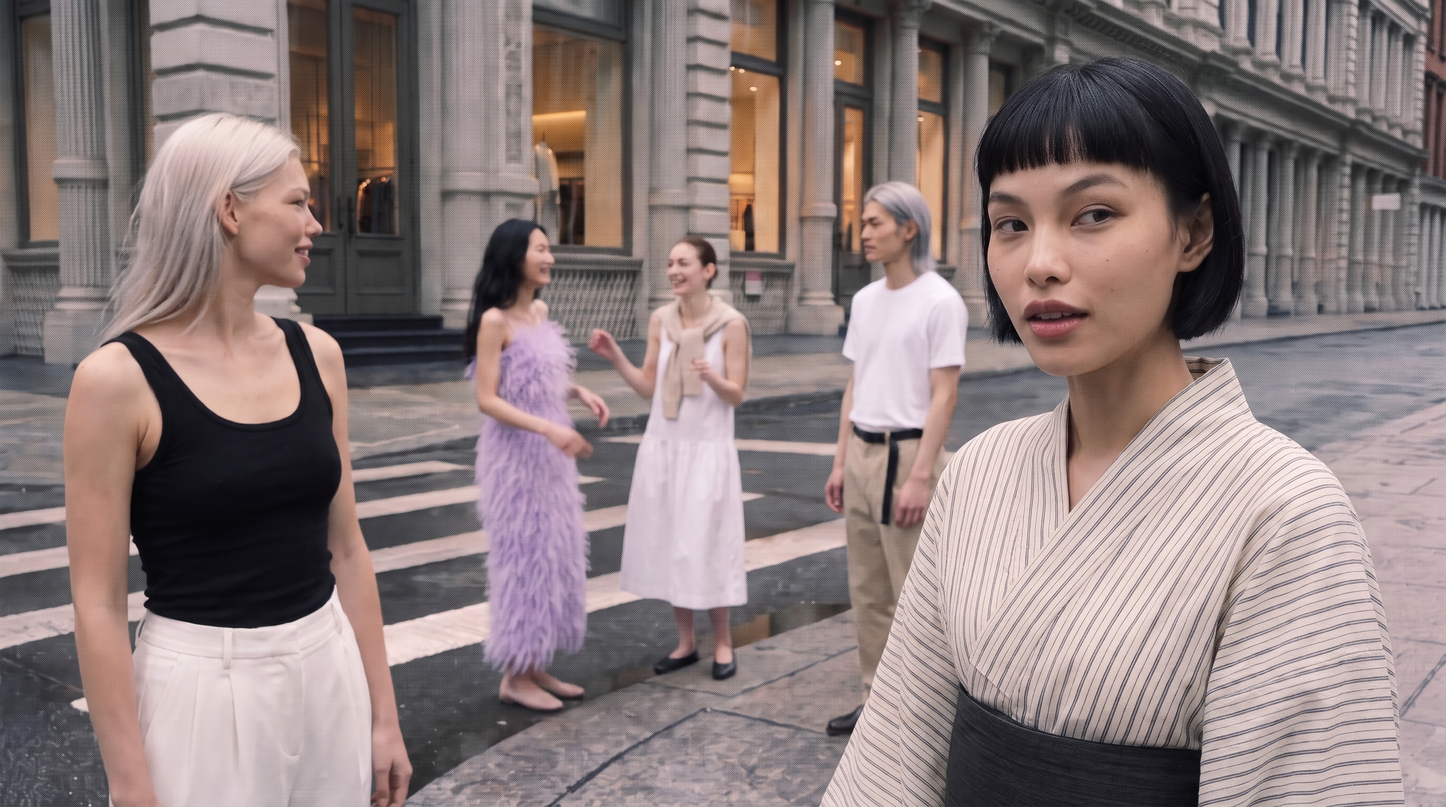
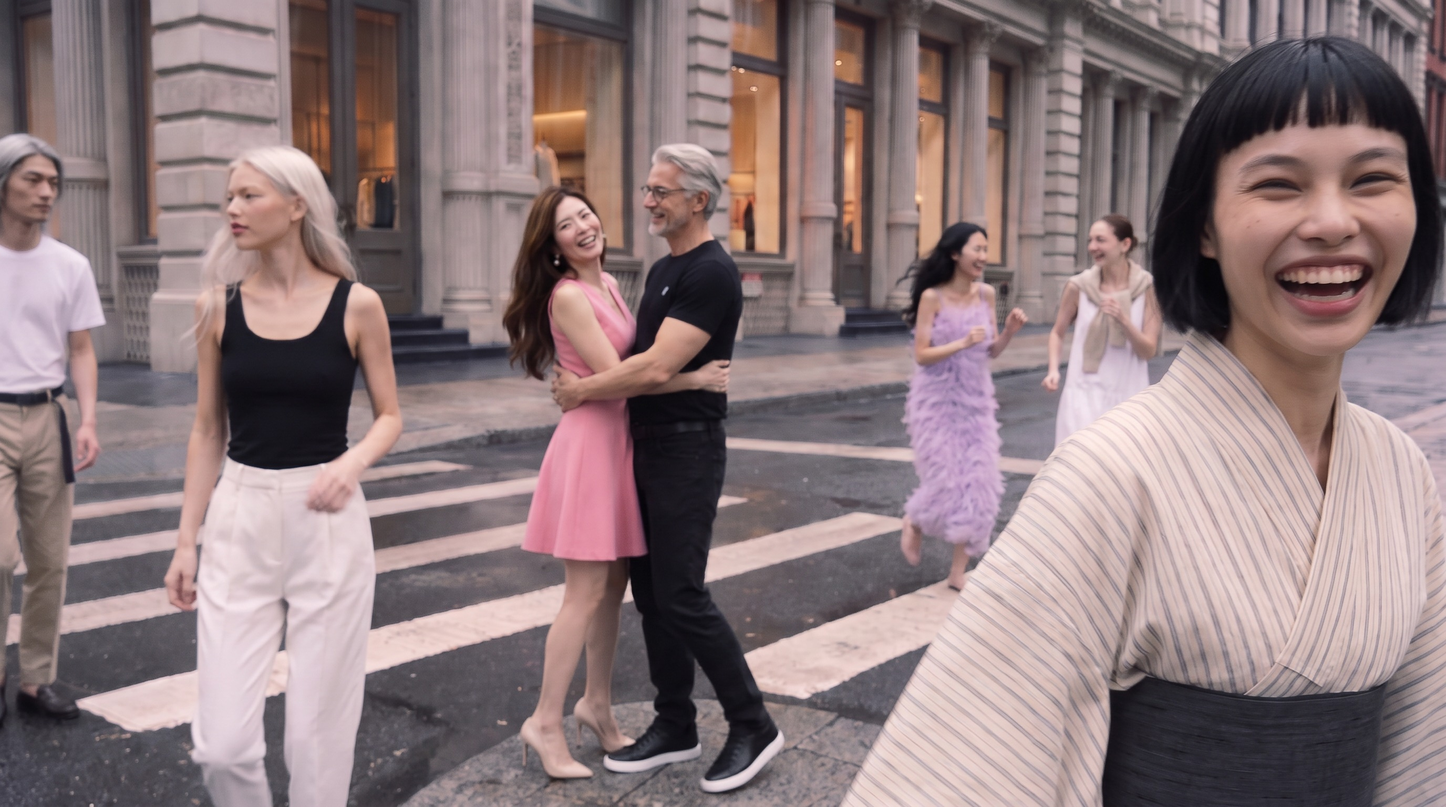
Add first frame K02 (PINKDRESS + GREYMAN) and draft 9 plan
Claude-Session: https://claude.ai/code/session_01UrVJCZzQWxhwZ3AtUMdF3w

diff --git a/street-dance/draft9_plan_and_prompt.md b/street-dance/draft9_plan_and_prompt.md
@@ -1,0 +1,58 @@
+# Draft 9: plan, inputs and prompt
+
+Same script, timing, voices and ending as draft 8. Changes: two new cast members, PINKDRESS and GREYMAN, hug, chat and dance together in the middle distance; FEATHER and SLICKED chat, jump and chase each other further back, watching LEADER. New first frame K02.
+
+## Script
+| Speaker | Line | Starts at |
+|---|---|---|
+| LEADER | "Still paying Higgsfield for this?" | 0.6 s |
+| HERO | "We made Higgsfield three x cheaper." | 2.5 s |
+| HERO | "I cost nine dollars forty-five on Higgsfield… and now one dollar eighty on treg." | 5.0 s |
+| LEADER | "Told you. It's pay per call." | 10.7 s |
+
+## Shot plan: one continuous 14 s handheld take, no cuts
+| # | Time | What happens | Camera |
+|---|---|---|---|
+| 1 | 0.0–0.6 | LEADER dances right up to the lens, silent | ~0.3 m, focus hunting |
+| 2 | 0.6–2.3 | LEADER stands still and says line 1; HERO dances at frame-left | Steps back to 0.6 m |
+| 3 | 2.5–4.8 | Pull back; LEADER dances, HERO stands still and says line 2; PINKDRESS and GREYMAN hug and sway mid-ground; FEATHER chases SLICKED behind | ~2 m, quick pan to HERO |
+| 4 | 5.0–9.8 | Group shot; HERO stands still and says the price line, counts on her fingers | Medium-wide, ~1.5 m |
+| 5 | 9.9–10.6 | SILVERMAN dances across right in front of the lens and blocks it | Frame block, autofocus hunts |
+| 6 | 10.7–13.1 | LEADER leans right into the lens, face filling the frame, and says line 4 with a sly, knowing smirk; HERO dances behind | ~0.3 m, very close |
+| 7 | 13.1–14.0 | LEADER puts her palm over the lens; the frame goes fully black | Palm covers the lens, black to the end |
+
+## Inputs
+| # | Input | Role |
+|---|---|---|
+| 1 | street-dance/stills/K02.jpg | First frame |
+| 2–6 | street-dance/cast/leader, hero, feather, slicked, silverman (.jpg) | Face, hair, outfit of each person |
+| 6b | street-dance/cast/pinkdress.jpg | PINKDRESS face, hair, outfit |
+| 6c | street-dance/cast/greyman_outfit.jpg | GREYMAN outfit only (face is original, from the first frame) |
+| 7 | plates/scene_empty.jpg | The street |
+| 8 | street-dance/audio/voice_ref_leader_repo_both.mp3 (4.3 s): LEADER's two repo lines | LEADER's voice, including how she says "Higgsfield" |
+| 9 | street-dance/audio/voice_ref_hero_with_pron.mp3 (14.9 s): HERO's sample + a clip in her voice saying "Higgs field", "nine dollars forty-five", "one dollar eighty" and her full price line | HERO's voice, including how she says "Higgsfield" and the prices |
+
+Repo: cicadaaa/ugc-assets (cast, stills and HERO's voice on branch street-dance-assets; plate and LEADER's voice on main).
+
+## Settings
+Seedance 2.5 (model `doubao-seedance-2.5-face`, content filter off) via reAPI on treg, the same route as draft 1. 14 s, 480p, size adaptive (16:9 from the first frame), audio on. Cost $1.66 at 480p, $3.74 at 720p.
+
+## Prompt
+【Generation Goal】 One continuous 14-second handheld 16:9 take, no cuts, that looks filmed by a friend dancing along on a city street: seven friends dancing loosely, two of them talking to the camera. Clean frame: no REC, timestamp, focus brackets, grid, border, subtitles, text.
+【Reference Asset Roles】 @image1 = the first frame: starting composition, people, outfits and street. @image2 = LEADER: face, black blunt bob with short fringe, off-white pinstripe yukata with wide charcoal obi only; not its grey background. @image3 = HERO: face, platinum blonde hair, black scoop tank, white pleated trousers, black Mary Janes only; empty hands. @image4 = FEATHER: face, long wavy black hair, lavender feather dress only. @image5 = SLICKED: face, slicked-back brown hair, white midi dress, oatmeal knit tied over shoulders only. @image6 = SILVERMAN: face, shoulder-length silver hair, white crew tee, beige chinos, black belt only. In each cast image use only the face on the left; the right panels show clothes only. @image7 = PINKDRESS: face, long wavy chestnut-brown hair, pink sleeveless V-neck fit-and-flare mini dress, pearl drop earrings, nude pumps only. @image8 = GREYMAN's outfit only: plain black crew-neck tee with no logo, black jeans, black belt, black sneakers with white soles; his face, silver-grey swept-back hair and thin dark rectangular glasses come from @image1. @image9 = LOCATION: the street, buildings, crosswalk and curb only; no people, no furniture. @audio1 = LEADER's voice, saying her two lines: her timbre, accent, pitch, delivery and her pronunciation of "Higgsfield". It belongs to LEADER only. @audio2 = HERO's voice: her timbre, accent, pitch and tone, and in its second half her pronunciation of "Higgsfield" (HIGGS-feeld) and of the prices "nine dollars forty-five" and "one dollar eighty". Do not copy its other words or its timing. It belongs to HERO only.
+【Subjects and Relationships】 Exactly seven people, no one else: LEADER, HERO, FEATHER, SLICKED, SILVERMAN, PINKDRESS, GREYMAN. Each outfit belongs only to its owner. HERO stays frame-left of LEADER. PINKDRESS and GREYMAN are a couple in the middle distance, about 3 m back, staying together the whole take. FEATHER and SLICKED start 5 to 6 m back near the far curb and drift closer over the take. SILVERMAN starts at frame-left and drifts closer, ending about 2 m behind the two women.
+【Location】 The empty city street of @image9: pale stone cast-iron building fronts with fluted columns and warm-lit shop windows, wet dark asphalt, a white zebra crosswalk, a granite curb. No furniture.
+【Event Script】
+0.0–0.6 s: LEADER dances right up to the lens, laughing, hips swaying, one arm lifted so her wide sleeve sweeps past the lens, bob swinging; silent.
+0.6–2.3 s: LEADER stops dancing, stands still and says "Still paying Higgs-field for this?" to the lens, sly raised eyebrow; the camera steps back to collarbone-up, focus locks on her eyes. HERO soft at frame-left, dancing and watching her.
+2.5–4.8 s: the camera pulls back to about 2 m, waist-up, LEADER dancing beside HERO; a quick hand pan to HERO, who stops dancing, stands still and says "We made Higgs-field three x cheaper." toward the lens. LEADER grins at her. Behind them PINKDRESS and GREYMAN keep hugging and swaying, chatting to each other; FEATHER does a playful hop and chases SLICKED a few steps; SILVERMAN dances closer, watching HERO.
+5.0–9.8 s: medium-wide at about 1.5 m, HERO stands still, not dancing, and says "I cost nine dollars forty-five on Higgs-field… and now one dollar eighty on treg.", counting on her fingers at chest height; LEADER dances beside her and reacts a beat late with a delighted look.
+9.9–10.6 s: SILVERMAN dances across right in front of the lens from left to right, arms loose and swinging, mid-groove, not noticing the camera; his white tee fills and blocks the whole frame for a moment, dark and blurred, autofocus hunts, then he is gone.
+10.7–13.1 s: he clears the frame; LEADER leans right into the lens until her face fills the frame, about 0.3 m away, eyes level with the camera, and says "Told you. It's pay per call." with a sly, knowing smirk: a closed-lip smile pulled up on one side, narrowed eyes, one eyebrow slightly raised, chin a little down, like someone who was right all along. No laugh, no open-mouth grin. HERO dancing and laughing soft behind her shoulder.
+13.1–13.5 s: still smirking, LEADER reaches toward the camera with an open palm; her hand grows until it fills the whole frame.
+13.5–14.0 s: her palm covers the entire lens. The frame is completely black and stays fully black to the last frame: no gaps of light between the fingers, no partial cover, nothing visible.
+【Camera and Light】 Fujifilm X100VI 23mm f/2, Eterna film look: low saturation, soft contrast, lifted shadows, fine grain, shallow depth of field. Held in one hand by a friend dancing along: loose bounce on the beat, small tremors, framing that drifts and corrects, a slight horizon tilt he keeps fixing, no gimbal, no smooth gliding; he moves close to whoever speaks and backs off to show the group. Soft overcast late-afternoon daylight around 6500K from a white-grey sky, no direct sun, no hard shadows; shop windows add a small warm 2700K glow in the background only. A light breeze moves hair, sleeves and feathers.
+【Performance】 Movement style for everyone, like a group of friends goofing around backstage before a show: loose, carefree, unpolished party dancing, never a routine. Typical moves: hips swaying side to side, shoulders rolling, one or both arms lifted overhead and waving loosely, wrists flicking, a lazy half spin on the spot, walking-while-dancing (strolling a few steps with a bounce, then stopping to groove), playful hand flourishes toward each other, heads tilted back laughing. Moves are big enough to read clearly but relaxed and a little sloppy, each person in their own rhythm, nobody in sync. LEADER and HERO: whenever she is not speaking, each of them dances this way. Whenever she is speaking, she stops dancing and stands still, talking like a normal conversation, with relaxed shoulders, small natural weight shifts and only her hand gestures. So LEADER is still while she speaks (0.6–2.3 s and 10.7–13.1 s) and dances the rest of the time; HERO is still while she speaks (2.5–9.8 s) and dances before 2.5 s and after 9.8 s. Irregular natural blinking; eyes make tiny tracking movements; the speaker's gaze breaks from the lens briefly, then returns; the listener looks at the speaker. Visible breathing, natural weight and momentum, heads settle after each turn. PINKDRESS and GREYMAN: arms around each other the whole take, hugging side by side, swaying and bouncing together, small turns, chatting and laughing into each other's ears, sometimes a quick look over at LEADER and HERO; they never let go and never look into the lens. FEATHER and SLICKED: chatting and laughing, little jumps and hops, FEATHER playfully chasing SLICKED in short bursts and SLICKED dodging, then both stopping to look toward LEADER; light and playful, small hops only, never acrobatic. SILVERMAN dances loosely the whole time: arms up, hips swaying, strolling with a bounce. Background people keep moving and drift closer through the take; their attention is on LEADER and HERO, never on the lens. They never cover a speaker's face while she talks. When someone speaks, the mouth moves only a little: lips part a few millimetres, relaxed jaw, no wide-open vowels. All real motion, no robotic gestures.
+【Sound】 LEADER speaks her two lines, at 0.6 s and 10.7 s, in the voice of @audio1. HERO speaks her two lines, at 2.5 s and 5.0 s, in the voice of @audio2. Match each voice as closely as possible; never swap or blend them. "Higgs-field" is one word, said HIGGS-feeld exactly as in @audio1 and @audio2, never "Hogsfield"; "treg" rhymes with "egg". In HERO's second line the numbers are prices in US dollars, said slowly and clearly: "nine dollars forty-five" (NINE DOL-lars FOR-tee-FIVE) and "one dollar eighty" (ONE DOL-lar AY-tee); not a time of day, not "nine forty-five a.m.", not "two" or "to". Natural and casual, a small breath between phrases. Mouths matched to every word of their own lines only; closed or still when not speaking. Nobody else speaks. Keep light street ambience, footsteps and laughter; no music. On the black frames only a soft rustle of the hand on the lens.
+【Maintain Consistency】 Same seven faces and outfits throughout; the same street as @image9; one unbroken take; clean frame.
+【Avoid】 plastic or airbrushed skin, poreless faces, perfect symmetry, studio light, direct sun, smooth gliding camera, background people looking into the lens, wild or acrobatic background dancing, choreographed routines, a hand swipe across the lens, light leaking around the hand at the end, anything visible after the frame goes black, background people standing still, robotic or evenly timed blinking, fixed gaze, fully choreographed dance routines, LEADER or HERO dancing, bopping or swaying to a beat while she speaks, LEADER laughing or grinning with open mouth on her last line, extra people, passers-by, swapped or blended voices, extra spoken words, furniture, props, magazine, laptop, readable signs or text, logos, REC indicators, subtitles, cuts, a vertical frame.
